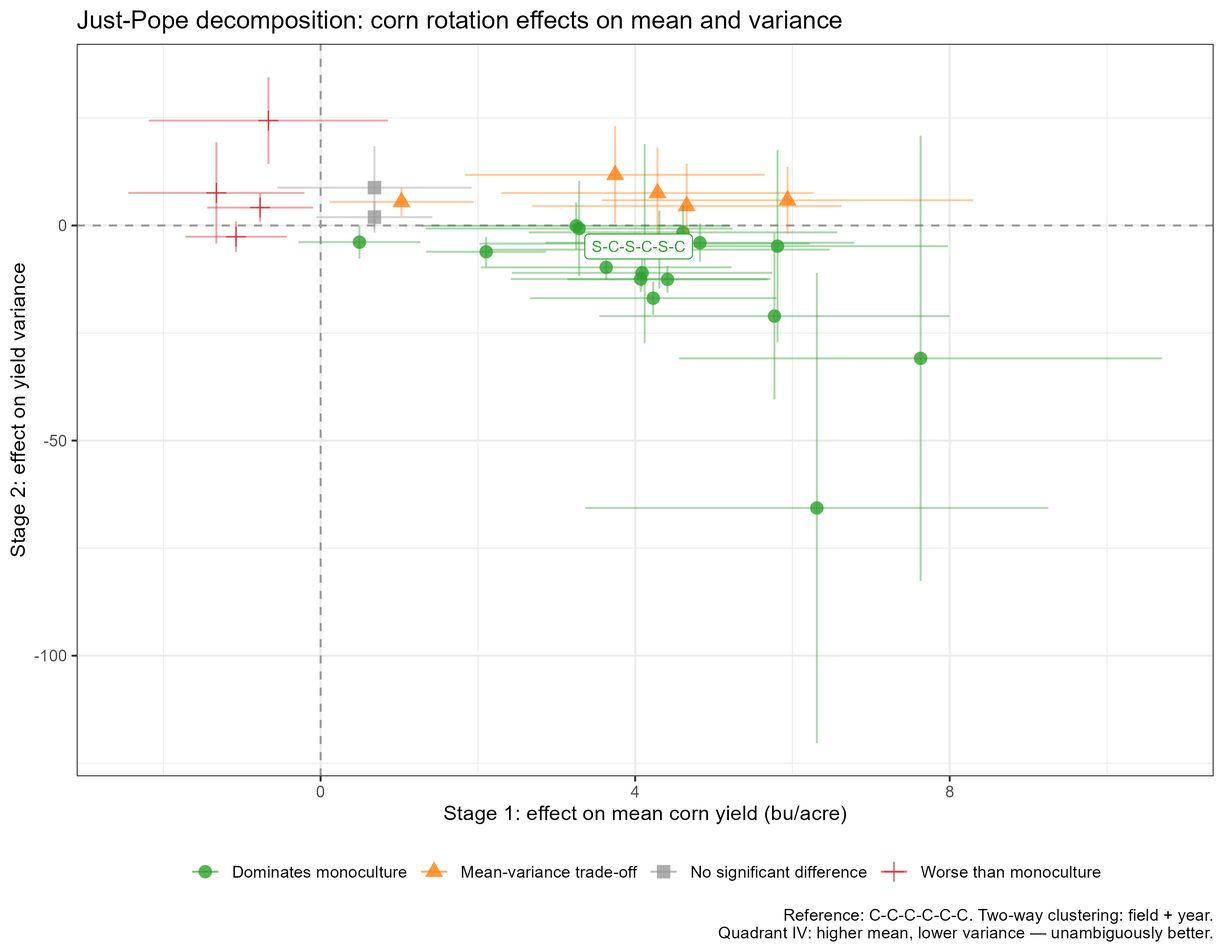
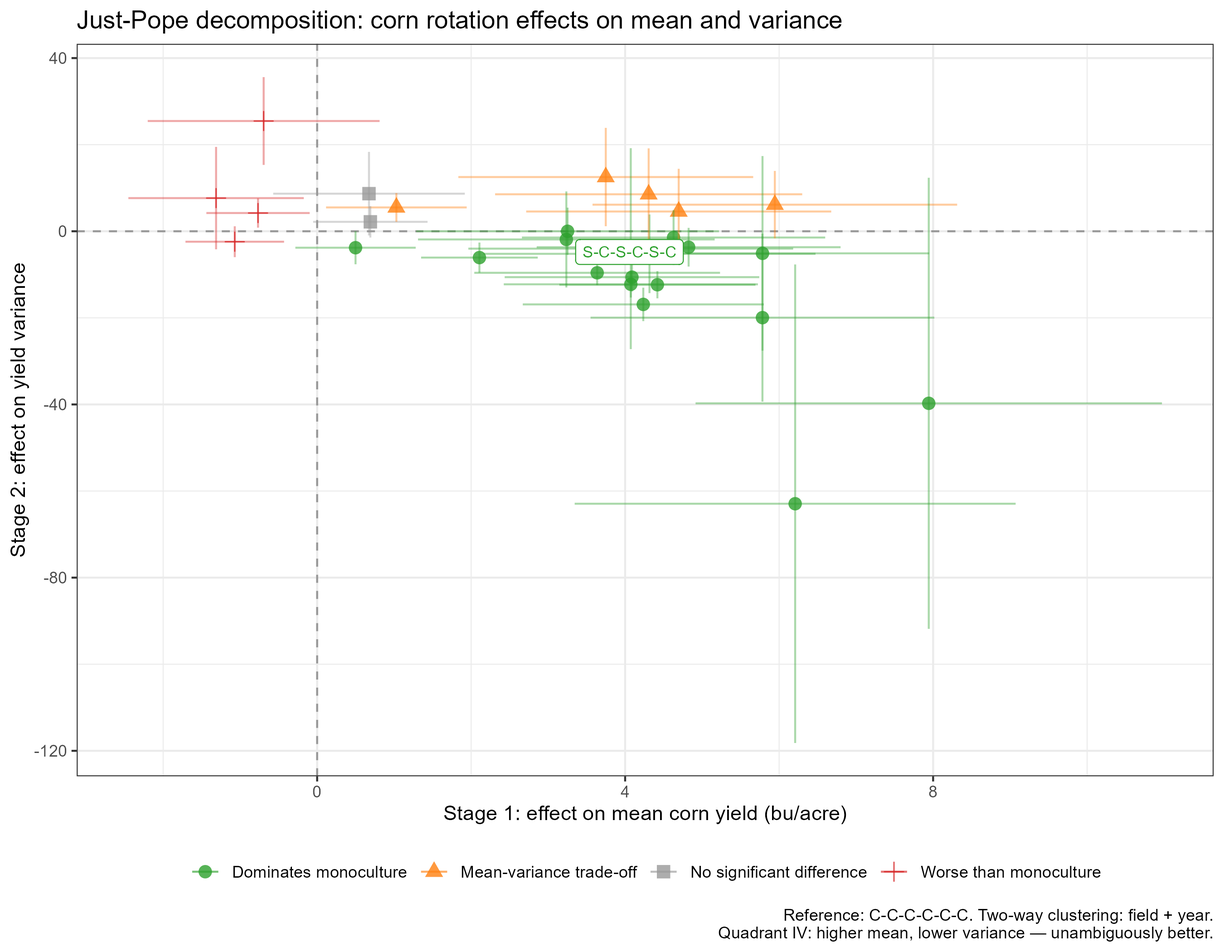
resolved sample size discrepancies

diff --git a/tables/corn_jp_mean.tex b/tables/corn_jp_mean.tex
@@ -8,41 +8,41 @@
        & \multicolumn{4}{c}{corn\_yield}\\
                                       & (1)                     & (2)                    & (3)                    & (4)\\  
       \midrule 
-      C-C-C-C-S-C                     & 4.411$^{***}$ (0.6499) [p<0.001]  &                        &                        &   \\   
-      C-C-C-S-C-C                     & 2.105$^{***}$ (0.3888) [p<0.001]  &                        &                        &   \\   
-      C-C-C-S-S-C                     & 3.746$^{***}$ (0.9712) [p=0.003]  &                        &                        &   \\   
-      C-C-C-S-W-C                     & 5.810$^{***}$ (1.107) [p<0.001]   &                        &                        &   \\   
-      C-C-S-C-C-C                     & 0.6844$^{*}$ (0.3756) [p=0.101]   &                        &                        &   \\   
-      C-C-S-C-S-C                     & 4.071$^{***}$ (0.8428) [p<0.001]  &                        &                        &   \\   
-      C-S-C-C-C-C                     & -0.7695$^{**}$ (0.3432) [p=0.051] &                        &                        &   \\   
-      C-S-C-C-S-C                     & 4.089$^{***}$ (0.8445) [p<0.001]  &                        &                        &   \\   
-      C-S-C-S-C-C                     & 1.028$^{**}$ (0.4680) [p=0.053]   &                        &                        &   \\   
-      C-S-C-S-S-C                     & 4.824$^{***}$ (1.003) [p<0.001]   &                        &                        &   \\   
-      C-S-C-W-S-C                     & 6.311$^{***}$ (1.502) [p=0.002]   &                        &                        &   \\   
-      C-S-S-S-S-C                     & 4.284$^{***}$ (1.015) [p=0.002]   &                        &                        &   \\   
-      S-C-C-C-C-C                     & -1.076$^{***}$ (0.3289) [p=0.008] &                        &                        &   \\   
-      S-C-C-C-S-C                     & 4.230$^{***}$ (0.7991) [p<0.001]  &                        &                        &   \\   
-      S-C-C-S-S-C                     & 3.287$^{***}$ (0.9953) [p=0.008]  &                        &                        &   \\   
-      S-C-C-S-W-C                     & 4.121$^{***}$ (1.072) [p=0.003]   &                        &                        &   \\   
-      S-C-S-C-C-C                     & 0.4936 (0.3959) [p=0.251]         &                        &                        &   \\   
-      S-C-S-C-S-C                     & 3.632$^{***}$ (0.8136) [p=0.001]  &                        &                        &   \\   
-      S-C-S-S-C-C                     & 0.6850 (0.6298) [p=0.306]         &                        &                        &   \\   
-      S-C-S-S-S-C                     & 4.609$^{***}$ (1.001) [p<0.001]   &                        &                        &   \\   
-      S-C-S-W-S-C                     & 5.772$^{***}$ (1.136) [p<0.001]   &                        &                        &   \\   
-      S-S-C-C-C-C                     & -1.326$^{**}$ (0.5710) [p=0.046]  &                        &                        &   \\   
-      S-S-C-C-S-C                     & 4.308$^{***}$ (1.105) [p=0.003]   &                        &                        &   \\   
-      S-S-C-S-C-C                     & -0.6638 (0.7758) [p=0.407]        &                        &                        &   \\   
-      S-S-C-S-S-C                     & 5.938$^{***}$ (1.204) [p<0.001]   &                        &                        &   \\   
-      S-S-S-C-S-C                     & 3.250$^{***}$ (0.9996) [p=0.008]  &                        &                        &   \\   
-      S-S-S-S-S-C                     & 4.655$^{***}$ (1.003) [p<0.001]   &                        &                        &   \\   
-      W-C-C-S-W-C                     & 7.630$^{***}$ (1.566) [p<0.001]   &                        &                        &   \\   
-      soy\_lag1                       &                         & 3.494$^{***}$ (0.5672) & 4.052$^{***}$ (0.6026) &   \\   
-      soy\_lag2                       &                         &                        & 1.369$^{***}$ (0.2386) &   \\   
-      rot\_index                      &                         &                        &                        & 0.6388$^{***}$ (0.1510)\\   
+      C-C-C-C-S-C                     & 4.419$^{***}$ (0.6498) [p<0.001]  &                        &                        &   \\   
+      C-C-C-S-C-C                     & 2.108$^{***}$ (0.3865) [p<0.001]  &                        &                        &   \\   
+      C-C-C-S-S-C                     & 3.749$^{***}$ (0.9768) [p=0.003]  &                        &                        &   \\   
+      C-C-C-S-W-C                     & 5.784$^{***}$ (1.104) [p<0.001]   &                        &                        &   \\   
+      C-C-S-C-C-C                     & 0.6911$^{*}$ (0.3791) [p=0.100]   &                        &                        &   \\   
+      C-C-S-C-S-C                     & 4.074$^{***}$ (0.8420) [p<0.001]  &                        &                        &   \\   
+      C-S-C-C-C-C                     & -0.7678$^{**}$ (0.3423) [p=0.051] &                        &                        &   \\   
+      C-S-C-C-S-C                     & 4.089$^{***}$ (0.8435) [p<0.001]  &                        &                        &   \\   
+      C-S-C-S-C-C                     & 1.029$^{**}$ (0.4660) [p=0.052]   &                        &                        &   \\   
+      C-S-C-S-S-C                     & 4.825$^{***}$ (1.007) [p<0.001]   &                        &                        &   \\   
+      C-S-C-W-S-C                     & 6.208$^{***}$ (1.461) [p=0.002]   &                        &                        &   \\   
+      C-S-S-S-S-C                     & 4.305$^{***}$ (1.018) [p=0.002]   &                        &                        &   \\   
+      S-C-C-C-C-C                     & -1.070$^{***}$ (0.3267) [p=0.008] &                        &                        &   \\   
+      S-C-C-C-S-C                     & 4.236$^{***}$ (0.7985) [p<0.001]  &                        &                        &   \\   
+      S-C-C-S-S-C                     & 3.236$^{***}$ (0.9829) [p=0.008]  &                        &                        &   \\   
+      S-C-C-S-W-C                     & 4.073$^{***}$ (1.076) [p=0.003]   &                        &                        &   \\   
+      S-C-S-C-C-C                     & 0.4986 (0.3987) [p=0.249]         &                        &                        &   \\   
+      S-C-S-C-S-C                     & 3.637$^{***}$ (0.8142) [p=0.001]  &                        &                        &   \\   
+      S-C-S-S-C-C                     & 0.6735 (0.6348) [p=0.318]         &                        &                        &   \\   
+      S-C-S-S-S-C                     & 4.629$^{***}$ (1.005) [p<0.001]   &                        &                        &   \\   
+      S-C-S-W-S-C                     & 5.783$^{***}$ (1.139) [p<0.001]   &                        &                        &   \\   
+      S-S-C-C-C-C                     & -1.313$^{**}$ (0.5812) [p=0.051]  &                        &                        &   \\   
+      S-S-C-C-S-C                     & 4.316$^{***}$ (1.100) [p=0.003]   &                        &                        &   \\   
+      S-S-C-S-C-C                     & -0.6947 (0.7683) [p=0.381]        &                        &                        &   \\   
+      S-S-C-S-S-C                     & 5.944$^{***}$ (1.208) [p<0.001]   &                        &                        &   \\   
+      S-S-S-C-S-C                     & 3.253$^{***}$ (1.003) [p=0.008]   &                        &                        &   \\   
+      S-S-S-S-S-C                     & 4.696$^{***}$ (1.011) [p<0.001]   &                        &                        &   \\   
+      W-C-C-S-W-C                     & 7.943$^{***}$ (1.545) [p<0.001]   &                        &                        &   \\   
+      soy\_lag1                       &                         & 3.496$^{***}$ (0.5677) & 4.054$^{***}$ (0.6028) &   \\   
+      soy\_lag2                       &                         &                        & 1.368$^{***}$ (0.2386) &   \\   
+      rot\_index                      &                         &                        &                        & 0.6389$^{***}$ (0.1512)\\   
        \\
-      Observations                    & 1,796,806               & 1,796,806              & 1,796,806              & 1,796,806\\  
-      R$^2$                           & 0.84354                 & 0.84332                & 0.84343                & 0.84256\\  
-      Within R$^2$                    & 0.15452                 & 0.15332                & 0.15391                & 0.14918\\  
+      Observations                    & 1,785,861               & 1,785,861              & 1,785,861              & 1,785,861\\  
+      R$^2$                           & 0.84367                 & 0.84345                & 0.84356                & 0.84269\\  
+      Within R$^2$                    & 0.15453                 & 0.15333                & 0.15392                & 0.14919\\  
        \\
       tile\_field\_ID fixed effects   & $\checkmark$            & $\checkmark$           & $\checkmark$           & $\checkmark$\\   
       year fixed effects              & $\checkmark$            & $\checkmark$           & $\checkmark$           & $\checkmark$\\   

diff --git a/tables/corn_rot.tex b/tables/corn_rot.tex
@@ -11,38 +11,38 @@
                                       & No controls              & With controls \\   
                                       & (1)                      & (2)\\  
       \midrule 
-      W-C-C-S-W-C                     & 8.329$^{***}$ (1.537) [p<0.001]    & 7.630$^{***}$ (1.496) [p<0.001]\\   
-      C-S-C-W-S-C                     & 8.170$^{***}$ (1.492) [p<0.001]    & 6.311$^{***}$ (1.368) [p<0.001]\\   
-      S-S-C-S-S-C                     & 6.861$^{***}$ (0.5615) [p<0.001]   & 5.938$^{***}$ (0.5157) [p<0.001]\\   
-      C-C-C-S-W-C                     & 6.826$^{***}$ (0.6815) [p<0.001]   & 5.810$^{***}$ (0.6512) [p<0.001]\\   
-      S-C-S-W-S-C                     & 6.292$^{***}$ (0.6945) [p<0.001]   & 5.772$^{***}$ (0.6868) [p<0.001]\\   
-      C-S-C-S-S-C                     & 5.430$^{***}$ (0.4847) [p<0.001]   & 4.824$^{***}$ (0.4312) [p<0.001]\\   
-      S-S-S-S-S-C                     & 5.061$^{***}$ (0.6902) [p<0.001]   & 4.655$^{***}$ (0.5542) [p<0.001]\\   
-      S-C-S-S-S-C                     & 5.270$^{***}$ (0.5453) [p<0.001]   & 4.609$^{***}$ (0.4616) [p<0.001]\\   
-      C-C-C-C-S-C                     & 4.628$^{***}$ (0.3541) [p<0.001]   & 4.411$^{***}$ (0.3639) [p<0.001]\\   
-      S-S-C-C-S-C                     & 5.004$^{***}$ (0.5438) [p<0.001]   & 4.308$^{***}$ (0.5122) [p<0.001]\\   
-      C-S-S-S-S-C                     & 4.305$^{***}$ (0.6044) [p<0.001]   & 4.284$^{***}$ (0.5434) [p<0.001]\\   
-      S-C-C-C-S-C                     & 4.696$^{***}$ (0.3683) [p<0.001]   & 4.230$^{***}$ (0.3499) [p<0.001]\\   
-      S-C-C-S-W-C                     & 5.012$^{***}$ (0.7216) [p<0.001]   & 4.121$^{***}$ (0.6876) [p<0.001]\\   
-      C-S-C-C-S-C                     & 4.494$^{***}$ (0.3984) [p<0.001]   & 4.089$^{***}$ (0.3658) [p<0.001]\\   
-      C-C-S-C-S-C                     & 4.286$^{***}$ (0.4121) [p<0.001]   & 4.071$^{***}$ (0.3928) [p<0.001]\\   
-      C-C-C-S-S-C                     & 3.602$^{***}$ (0.5559) [p<0.001]   & 3.746$^{***}$ (0.5121) [p<0.001]\\   
-      S-C-S-C-S-C                     & 4.195$^{***}$ (0.4310) [p<0.001]   & 3.632$^{***}$ (0.3953) [p<0.001]\\   
-      S-C-C-S-S-C                     & 3.943$^{***}$ (0.6356) [p<0.001]   & 3.287$^{***}$ (0.5725) [p<0.001]\\   
-      S-S-S-C-S-C                     & 3.650$^{***}$ (0.5843) [p<0.001]   & 3.250$^{***}$ (0.5012) [p<0.001]\\   
-      C-C-C-S-C-C                     & 2.463$^{***}$ (0.2341) [p<0.001]   & 2.105$^{***}$ (0.2482) [p<0.001]\\   
-      C-S-C-S-C-C                     & 1.436$^{***}$ (0.3704) [p<0.001]   & 1.028$^{***}$ (0.3617) [p=0.005]\\   
-      S-C-S-S-C-C                     & 1.214$^{**}$ (0.5779) [p=0.038]    & 0.6850 (0.5368) [p=0.205]\\   
-      C-C-S-C-C-C                     & 0.9810$^{***}$ (0.2932) [p=0.001]  & 0.6844$^{**}$ (0.2820) [p=0.017]\\   
-      S-C-S-C-C-C                     & 0.9022$^{***}$ (0.3191) [p=0.006]  & 0.4936 (0.3144) [p=0.119]\\   
-      S-S-C-S-C-C                     & 0.0523 (0.6005) [p=0.931]          & -0.6638 (0.5569) [p=0.236]\\   
-      C-S-C-C-C-C                     & -0.6166$^{**}$ (0.2826) [p=0.031]  & -0.7695$^{***}$ (0.2520) [p=0.003]\\   
-      S-C-C-C-C-C                     & -0.7831$^{***}$ (0.2424) [p=0.002] & -1.076$^{***}$ (0.2311) [p<0.001]\\   
-      S-S-C-C-C-C                     & -1.096 (0.7090) [p=0.125]          & -1.326$^{**}$ (0.6373) [p=0.040]\\   
+      W-C-C-S-W-C                     & 8.680$^{***}$ (1.649) [p<0.001]    & 7.943$^{***}$ (1.586) [p<0.001]\\   
+      C-S-C-W-S-C                     & 7.982$^{***}$ (1.511) [p<0.001]    & 6.208$^{***}$ (1.397) [p<0.001]\\   
+      S-S-C-S-S-C                     & 6.866$^{***}$ (0.5654) [p<0.001]   & 5.944$^{***}$ (0.5181) [p<0.001]\\   
+      C-C-C-S-W-C                     & 6.834$^{***}$ (0.7040) [p<0.001]   & 5.784$^{***}$ (0.6708) [p<0.001]\\   
+      S-C-S-W-S-C                     & 6.308$^{***}$ (0.6958) [p<0.001]   & 5.783$^{***}$ (0.6880) [p<0.001]\\   
+      C-S-C-S-S-C                     & 5.429$^{***}$ (0.4859) [p<0.001]   & 4.825$^{***}$ (0.4308) [p<0.001]\\   
+      S-S-S-S-S-C                     & 5.093$^{***}$ (0.6941) [p<0.001]   & 4.696$^{***}$ (0.5570) [p<0.001]\\   
+      S-C-S-S-S-C                     & 5.289$^{***}$ (0.5475) [p<0.001]   & 4.629$^{***}$ (0.4641) [p<0.001]\\   
+      C-C-C-C-S-C                     & 4.639$^{***}$ (0.3517) [p<0.001]   & 4.419$^{***}$ (0.3618) [p<0.001]\\   
+      S-S-C-C-S-C                     & 5.011$^{***}$ (0.5447) [p<0.001]   & 4.316$^{***}$ (0.5131) [p<0.001]\\   
+      C-S-S-S-S-C                     & 4.322$^{***}$ (0.6059) [p<0.001]   & 4.305$^{***}$ (0.5432) [p<0.001]\\   
+      S-C-C-C-S-C                     & 4.696$^{***}$ (0.3679) [p<0.001]   & 4.236$^{***}$ (0.3480) [p<0.001]\\   
+      C-S-C-C-S-C                     & 4.494$^{***}$ (0.4010) [p<0.001]   & 4.089$^{***}$ (0.3671) [p<0.001]\\   
+      C-C-S-C-S-C                     & 4.291$^{***}$ (0.4132) [p<0.001]   & 4.074$^{***}$ (0.3927) [p<0.001]\\   
+      S-C-C-S-W-C                     & 4.976$^{***}$ (0.7342) [p<0.001]   & 4.073$^{***}$ (0.7015) [p<0.001]\\   
+      C-C-C-S-S-C                     & 3.604$^{***}$ (0.5592) [p<0.001]   & 3.749$^{***}$ (0.5165) [p<0.001]\\   
+      S-C-S-C-S-C                     & 4.200$^{***}$ (0.4326) [p<0.001]   & 3.637$^{***}$ (0.3958) [p<0.001]\\   
+      S-S-S-C-S-C                     & 3.647$^{***}$ (0.5858) [p<0.001]   & 3.253$^{***}$ (0.5028) [p<0.001]\\   
+      S-C-C-S-S-C                     & 3.900$^{***}$ (0.6419) [p<0.001]   & 3.236$^{***}$ (0.5769) [p<0.001]\\   
+      C-C-C-S-C-C                     & 2.465$^{***}$ (0.2341) [p<0.001]   & 2.108$^{***}$ (0.2465) [p<0.001]\\   
+      C-S-C-S-C-C                     & 1.442$^{***}$ (0.3718) [p<0.001]   & 1.029$^{***}$ (0.3616) [p=0.005]\\   
+      C-C-S-C-C-C                     & 0.9861$^{***}$ (0.2913) [p=0.001]  & 0.6911$^{**}$ (0.2791) [p=0.015]\\   
+      S-C-S-S-C-C                     & 1.210$^{**}$ (0.5825) [p=0.040]    & 0.6735 (0.5392) [p=0.215]\\   
+      S-C-S-C-C-C                     & 0.9079$^{***}$ (0.3195) [p=0.005]  & 0.4986 (0.3127) [p=0.114]\\   
+      S-S-C-S-C-C                     & 0.0162 (0.6025) [p=0.979]          & -0.6947 (0.5612) [p=0.219]\\   
+      C-S-C-C-C-C                     & -0.6147$^{**}$ (0.2839) [p=0.033]  & -0.7678$^{***}$ (0.2532) [p=0.003]\\   
+      S-C-C-C-C-C                     & -0.7740$^{***}$ (0.2439) [p=0.002] & -1.070$^{***}$ (0.2320) [p<0.001]\\   
+      S-S-C-C-C-C                     & -1.050 (0.7006) [p=0.137]          & -1.313$^{**}$ (0.6345) [p=0.041]\\   
        \\
-      Observations                    & 1,796,806                & 1,796,806\\  
-      R$^2$                           & 0.81623                  & 0.84354\\  
-      Within R$^2$                    & 0.00690                  & 0.15452\\  
+      Observations                    & 1,785,861                & 1,785,861\\  
+      R$^2$                           & 0.81638                  & 0.84367\\  
+      Within R$^2$                    & 0.00690                  & 0.15453\\  
       Controls                        & No                       & Yes\\  
        \\
       tile\_field\_ID fixed effects   & $\checkmark$             & $\checkmark$\\   

diff --git a/tables/corn_jp_moments.tex b/tables/corn_jp_moments.tex
@@ -9,38 +9,38 @@
                                       & Variance               & Skewness (standardized) \\   
                                       & (1)                    & (2)\\  
       \midrule 
-      C-C-C-C-S-C                     & -12.52$^{***}$ (1.597) & -0.0696 (0.0445)\\   
-      C-C-C-S-C-C                     & -6.106$^{***}$ (1.768) & -0.1021$^{**}$ (0.0493)\\   
-      C-C-C-S-S-C                     & 11.77$^{**}$ (5.780)   & -0.3724$^{**}$ (0.1611)\\   
-      C-C-C-S-W-C                     & -4.809 (11.40)         & -0.0741 (0.3176)\\   
-      C-C-S-C-C-C                     & 1.937 (1.843)          & 0.0385 (0.0513)\\   
-      C-C-S-C-S-C                     & -12.45$^{***}$ (1.551) & -0.0185 (0.0432)\\   
-      C-S-C-C-C-C                     & 4.162$^{**}$ (1.722)   & 0.0611 (0.0480)\\   
-      C-S-C-C-S-C                     & -11.01$^{***}$ (1.676) & 0.0336 (0.0467)\\   
-      C-S-C-S-C-C                     & 5.486$^{***}$ (1.686)  & -0.3115$^{***}$ (0.0470)\\   
-      C-S-C-S-S-C                     & -4.006$^{*}$ (2.274)   & -0.1858$^{***}$ (0.0634)\\   
-      C-S-C-W-S-C                     & -65.66$^{**}$ (27.87)  & 0.3026 (0.7766)\\   
-      C-S-S-S-S-C                     & 7.553 (5.400)          & -0.0536 (0.1505)\\   
-      S-C-C-C-C-C                     & -2.612 (1.814)         & -0.0207 (0.0505)\\   
-      S-C-C-C-S-C                     & -16.90$^{***}$ (1.965) & 0.0556 (0.0547)\\   
-      S-C-C-S-S-C                     & -0.7096 (5.639)        & -0.2582 (0.1571)\\   
-      S-C-C-S-W-C                     & -4.207 (11.80)         & -0.1239 (0.3288)\\   
-      S-C-S-C-C-C                     & -3.879$^{**}$ (1.947)  & -0.0006 (0.0542)\\   
-      S-C-S-C-S-C                     & -9.728$^{***}$ (1.448) & -0.0221 (0.0403)\\   
-      S-C-S-S-C-C                     & 8.788$^{*}$ (4.913)    & -0.2334$^{*}$ (0.1369)\\   
-      S-C-S-S-S-C                     & -1.601 (3.223)         & -0.1789$^{**}$ (0.0898)\\   
-      S-C-S-W-S-C                     & -21.06$^{**}$ (9.872)  & 0.0158 (0.2751)\\   
-      S-S-C-C-C-C                     & 7.581 (6.013)          & -0.3302$^{**}$ (0.1675)\\   
-      S-S-C-C-S-C                     & -5.610 (4.618)         & 0.0263 (0.1287)\\   
-      S-S-C-S-C-C                     & 24.39$^{***}$ (5.151)  & -0.2347 (0.1435)\\   
-      S-S-C-S-S-C                     & 5.867 (3.969)          & -0.2013$^{*}$ (0.1106)\\   
-      S-S-S-C-S-C                     & -0.0918 (2.774)        & -0.1830$^{**}$ (0.0773)\\   
-      S-S-S-S-S-C                     & 4.522 (5.020)          & -0.0640 (0.1399)\\   
-      W-C-C-S-W-C                     & -30.89 (26.41)         & -0.3781 (0.7358)\\   
+      C-C-C-C-S-C                     & -12.35$^{***}$ (1.602) & -0.0698 (0.0447)\\   
+      C-C-C-S-C-C                     & -6.079$^{***}$ (1.773) & -0.0997$^{**}$ (0.0495)\\   
+      C-C-C-S-S-C                     & 12.52$^{**}$ (5.796)   & -0.3691$^{**}$ (0.1616)\\   
+      C-C-C-S-W-C                     & -5.099 (11.47)         & -0.0740 (0.3198)\\   
+      C-C-S-C-C-C                     & 2.177 (1.849)          & 0.0422 (0.0515)\\   
+      C-C-S-C-S-C                     & -12.25$^{***}$ (1.555) & -0.0172 (0.0434)\\   
+      C-S-C-C-C-C                     & 4.212$^{**}$ (1.727)   & 0.0614 (0.0482)\\   
+      C-S-C-C-S-C                     & -10.60$^{***}$ (1.682) & 0.0332 (0.0469)\\   
+      C-S-C-S-C-C                     & 5.506$^{***}$ (1.691)  & -0.3127$^{***}$ (0.0472)\\   
+      C-S-C-S-S-C                     & -3.685 (2.280)         & -0.1868$^{***}$ (0.0636)\\   
+      C-S-C-W-S-C                     & -62.93$^{**}$ (28.20)  & 0.3073 (0.7863)\\   
+      C-S-S-S-S-C                     & 8.542 (5.410)          & -0.0609 (0.1509)\\   
+      S-C-C-C-C-C                     & -2.414 (1.819)         & -0.0201 (0.0507)\\   
+      S-C-C-C-S-C                     & -16.89$^{***}$ (1.970) & 0.0626 (0.0549)\\   
+      S-C-C-S-S-C                     & -1.888 (5.657)         & -0.2959$^{*}$ (0.1578)\\   
+      S-C-C-S-W-C                     & -4.014 (11.84)         & -0.1277 (0.3302)\\   
+      S-C-S-C-C-C                     & -3.799$^{*}$ (1.952)   & 0.0016 (0.0544)\\   
+      S-C-S-C-S-C                     & -9.593$^{***}$ (1.453) & -0.0196 (0.0405)\\   
+      S-C-S-S-C-C                     & 8.684$^{*}$ (4.924)    & -0.2235 (0.1373)\\   
+      S-C-S-S-S-C                     & -1.445 (3.231)         & -0.1768$^{**}$ (0.0901)\\   
+      S-C-S-W-S-C                     & -19.95$^{**}$ (9.895)  & 0.0134 (0.2759)\\   
+      S-S-C-C-C-C                     & 7.659 (6.035)          & -0.3315$^{**}$ (0.1683)\\   
+      S-S-C-C-S-C                     & -5.209 (4.633)         & 0.0250 (0.1292)\\   
+      S-S-C-S-C-C                     & 25.46$^{***}$ (5.173)  & -0.2299 (0.1443)\\   
+      S-S-C-S-S-C                     & 6.141 (3.978)          & -0.2069$^{*}$ (0.1109)\\   
+      S-S-S-C-S-C                     & -0.0004 (2.781)        & -0.1828$^{**}$ (0.0775)\\   
+      S-S-S-S-S-C                     & 4.564 (5.033)          & -0.0658 (0.1403)\\   
+      W-C-C-S-W-C                     & -39.74 (26.58)         & -0.2193 (0.7412)\\   
        \\
-      Observations                    & 1,796,806              & 1,796,806\\  
-      R$^2$                           & 0.29104                & 0.08660\\  
-      Within R$^2$                    & 0.01396                & 0.00194\\  
+      Observations                    & 1,785,861              & 1,785,861\\  
+      R$^2$                           & 0.29115                & 0.08661\\  
+      Within R$^2$                    & 0.01395                & 0.00195\\  
        \\
       tile\_field\_ID fixed effects   & $\checkmark$           & $\checkmark$\\   
       year fixed effects              & $\checkmark$           & $\checkmark$\\   

diff --git a/tables/corn_rci.tex b/tables/corn_rci.tex
@@ -9,19 +9,19 @@
                                       & No controls            & Weather and soil controls \\   
                                       & (1)                    & (2)\\  
       \midrule 
-      RCI = 1.41                      & -0.2195 (0.2439)       & -0.5052$^{**}$ (0.2342)\\   
-      RCI = 1.73                      & 2.199$^{***}$ (0.3116) & 2.017$^{***}$ (0.3100)\\   
-      RCI = 2                         & 1.656$^{***}$ (0.2694) & 1.328$^{***}$ (0.2736)\\   
-      RCI = 2.24                      & 3.520$^{***}$ (0.3955) & 3.097$^{***}$ (0.3787)\\   
-      RCI = 2.45                      & 4.419$^{***}$ (0.3910) & 3.970$^{***}$ (0.3662)\\   
-      RCI = 2.65                      & 3.722$^{***}$ (0.6372) & 3.151$^{***}$ (0.5794)\\   
-      RCI = 3                         & 6.918$^{***}$ (0.6874) & 5.915$^{***}$ (0.6556)\\   
-      RCI = 3.24                      & 5.694$^{***}$ (0.6871) & 5.281$^{***}$ (0.6806)\\   
-      RCI = 3.46                      & 5.743$^{***}$ (0.5910) & 4.792$^{***}$ (0.6468)\\   
+      RCI = 1.41                      & -0.2082 (0.2447)       & -0.4964$^{**}$ (0.2345)\\   
+      RCI = 1.73                      & 2.207$^{***}$ (0.3110) & 2.022$^{***}$ (0.3094)\\   
+      RCI = 2                         & 1.659$^{***}$ (0.2687) & 1.332$^{***}$ (0.2714)\\   
+      RCI = 2.24                      & 3.524$^{***}$ (0.3965) & 3.100$^{***}$ (0.3786)\\   
+      RCI = 2.45                      & 4.418$^{***}$ (0.3926) & 3.968$^{***}$ (0.3663)\\   
+      RCI = 2.65                      & 3.677$^{***}$ (0.6425) & 3.097$^{***}$ (0.5827)\\   
+      RCI = 3                         & 6.922$^{***}$ (0.7104) & 5.885$^{***}$ (0.6755)\\   
+      RCI = 3.24                      & 5.711$^{***}$ (0.6883) & 5.292$^{***}$ (0.6814)\\   
+      RCI = 3.46                      & 5.730$^{***}$ (0.6196) & 4.777$^{***}$ (0.6729)\\   
        \\
-      Observations                    & 1,796,806              & 1,796,806\\  
-      R$^2$                           & 0.81549                & 0.84281\\  
-      Within R$^2$                    & 0.00290                & 0.15057\\  
+      Observations                    & 1,785,861              & 1,785,861\\  
+      R$^2$                           & 0.81564                & 0.84294\\  
+      Within R$^2$                    & 0.00290                & 0.15056\\  
        \\
       tile\_field\_ID fixed effects   & $\checkmark$           & $\checkmark$\\   
       year fixed effects              & $\checkmark$           & $\checkmark$\\   

diff --git a/tables/corn_rci_jp.tex b/tables/corn_rci_jp.tex
@@ -9,19 +9,19 @@
                                       & Mean                   & Variance \\   
                                       & (1)                    & (2)\\  
       \midrule 
-      RCI = 1.41                      & -0.5052 (0.3189)       & -2.536 (3.468)\\   
-      RCI = 1.73                      & 2.017$^{***}$ (0.5170) & 0.5084 (3.171)\\   
-      RCI = 2                         & 1.328$^{***}$ (0.3877) & -2.707 (3.710)\\   
-      RCI = 2.24                      & 3.097$^{***}$ (0.7093) & -8.188 (5.829)\\   
-      RCI = 2.45                      & 3.970$^{***}$ (0.8146) & -8.711 (7.119)\\   
-      RCI = 2.65                      & 3.151$^{***}$ (0.9498) & -5.189 (8.078)\\   
-      RCI = 3                         & 5.915$^{***}$ (1.100)  & -6.110 (17.11)\\   
-      RCI = 3.24                      & 5.281$^{***}$ (1.057)  & -20.69 (14.58)\\   
-      RCI = 3.46                      & 4.792$^{***}$ (0.9979) & -16.11 (12.05)\\   
+      RCI = 1.41                      & -0.4964 (0.3184)       & -2.341 (3.478)\\   
+      RCI = 1.73                      & 2.022$^{***}$ (0.5160) & 0.6314 (3.180)\\   
+      RCI = 2                         & 1.332$^{***}$ (0.3885) & -2.582 (3.788)\\   
+      RCI = 2.24                      & 3.100$^{***}$ (0.7077) & -8.049 (5.915)\\   
+      RCI = 2.45                      & 3.968$^{***}$ (0.8139) & -8.361 (7.212)\\   
+      RCI = 2.65                      & 3.097$^{***}$ (0.9368) & -6.412 (8.553)\\   
+      RCI = 3                         & 5.885$^{***}$ (1.099)  & -6.296 (17.45)\\   
+      RCI = 3.24                      & 5.292$^{***}$ (1.060)  & -19.62 (14.39)\\   
+      RCI = 3.46                      & 4.777$^{***}$ (0.9772) & -16.39 (12.37)\\   
        \\
-      Observations                    & 1,796,806              & 1,796,806\\  
-      R$^2$                           & 0.84281                & 0.29048\\  
-      Within R$^2$                    & 0.15057                & 0.01373\\  
+      Observations                    & 1,785,861              & 1,785,861\\  
+      R$^2$                           & 0.84294                & 0.29060\\  
+      Within R$^2$                    & 0.15056                & 0.01372\\  
        \\
       tile\_field\_ID fixed effects   & $\checkmark$           & $\checkmark$\\   
       year fixed effects              & $\checkmark$           & $\checkmark$\\   
